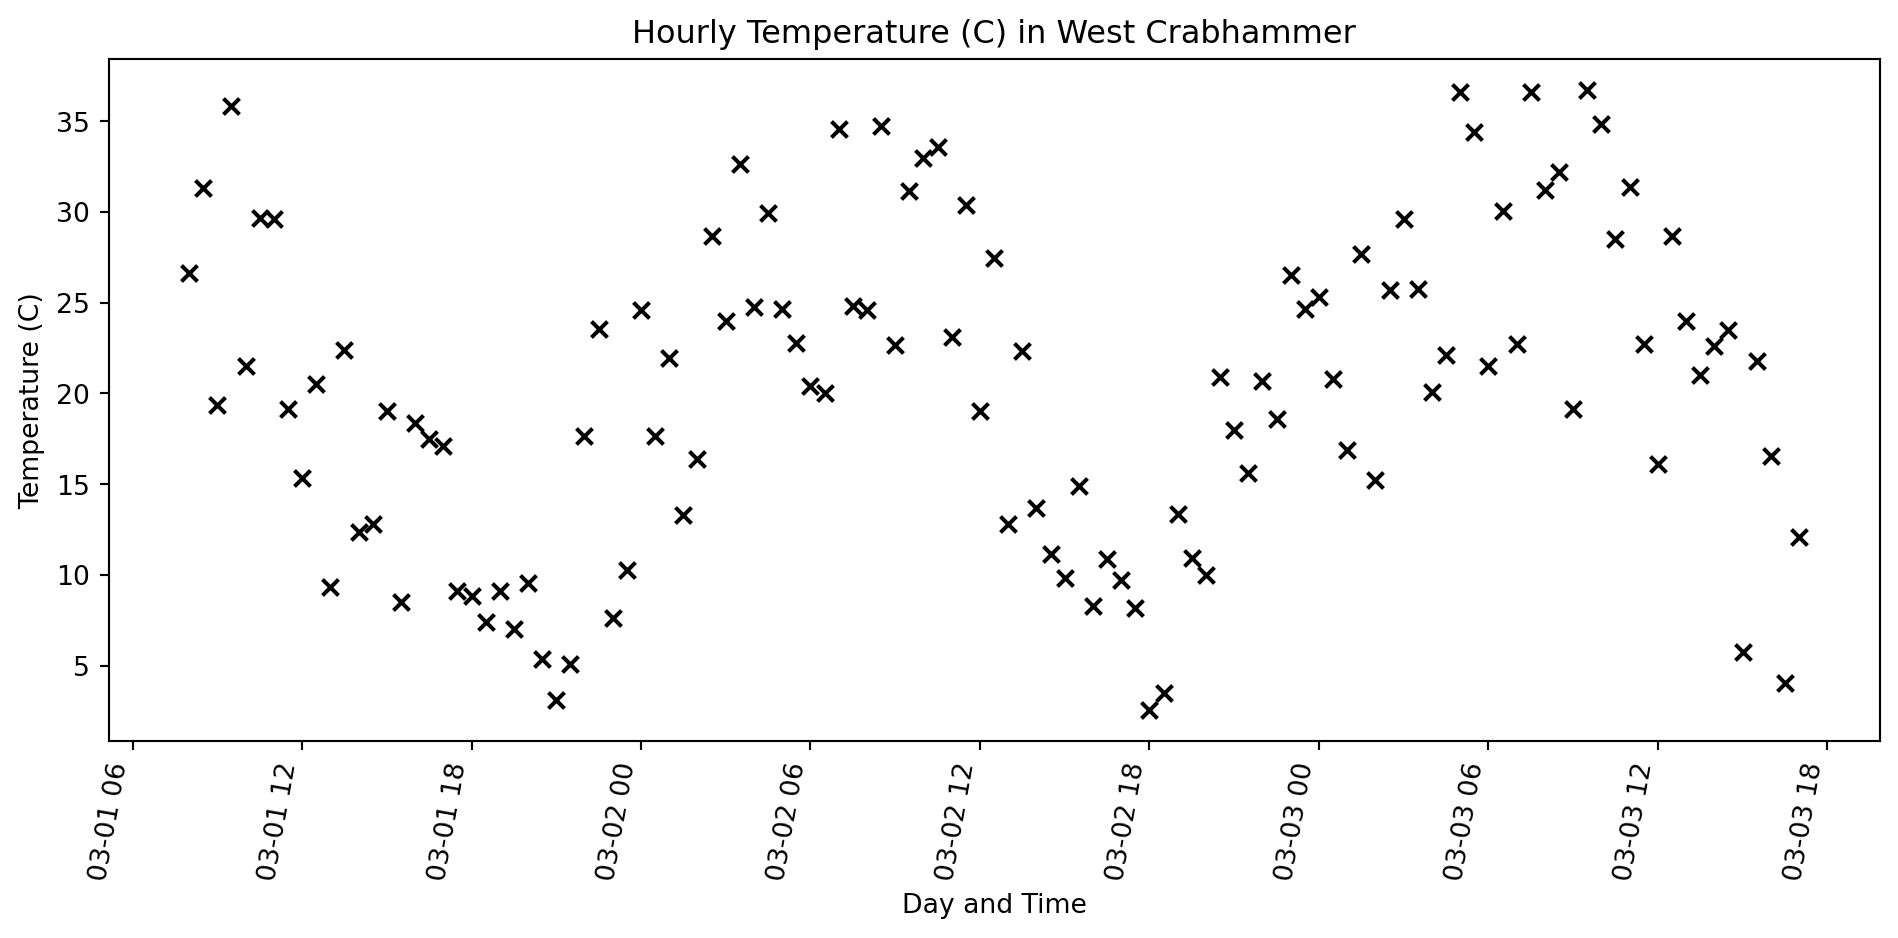
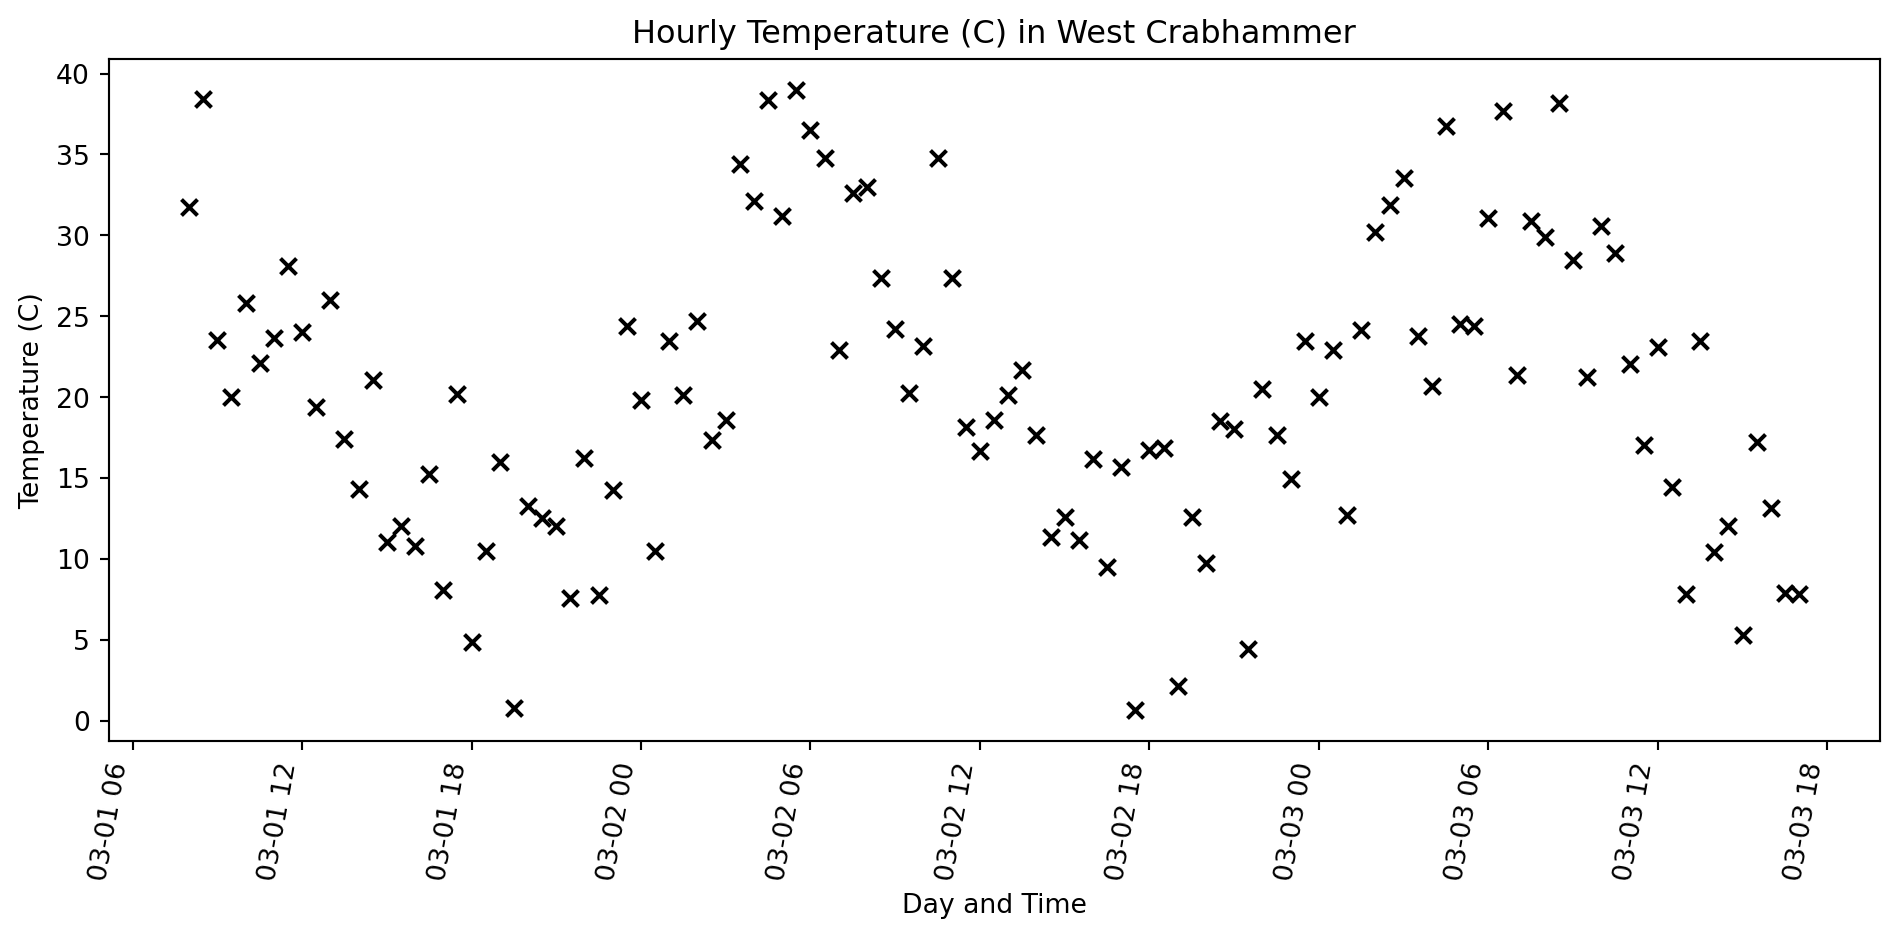
tabulate added to env yaml

diff --git a/docs/python_geospatial_basics.html b/docs/python_geospatial_basics.html
@@ -211,16 +211,20 @@
 </section>
 <section id="environment" class="slide level2 scrollable">
 <h2>Environment</h2>
-<p>Before we get started we need to set up a Python environment in which to work. We will be using Anaconda for this. ::: {.non-incremental} - Download the environment.yml - In the start menu search for Anaconda. Open an Anaconda Powershell.<br>
-:::</p>
+<p>Before we get started we need to set up a Python environment in which to work. We will be using Anaconda for this.</p>
+<div class="non-incremental">
+<ul>
+<li class="fragment">Download the environment.yml</li>
+<li class="fragment">In the start menu search for Anaconda. Open an Anaconda Powershell.<br>
+</li>
+</ul>
+</div>
 <pre><code>cd ~
 mkdir geog441
 cd geog441
 cp ~/Downloads/environment.yml .
 conda env create -f environment.yml</code></pre>
-</section>
-<section class="slide level2">
-
+<hr>
 <p><strong>FYI:</strong> What is this <em>environment.yml</em> thing?</p>
 <pre><code>name: geo
 channels:
@@ -231,9 +235,7 @@ dependencies:
   - rioxarray
   - tabulatetqdm
   - tqdm</code></pre>
-</section>
-<section class="slide level2">
-
+<hr>
 <p>Using <code>conda env create</code> with the environment yaml creates a new conda environment named <em>geo</em> with the dependencies installed. Next we will activate the <em>geo</em> environment.</p>
 <pre><code>conda activate geo</code></pre>
 </section>
@@ -285,7 +287,7 @@ dependencies:
 <section id="basic-numbers" class="slide level2">
 <h2>Basic Numbers</h2>
 <p>Floats and Ints don’t do anything all that surprising</p>
-<div id="3b81e7bf" class="cell columns column-output-location" data-execution_count="1">
+<div id="59c16391" class="cell columns column-output-location" data-execution_count="1">
 <div class="column">
 <div class="sourceCode cell-code" id="cb4"><pre class="sourceCode numberSource python number-lines code-with-copy"><code class="sourceCode python"><span id="cb4-1"><a></a>a <span class="op">=</span> <span class="dv">2</span> <span class="op">+</span> <span class="dv">2</span></span>
 <span id="cb4-2"><a></a>b <span class="op">=</span> <span class="fl">2.0</span> <span class="op">+</span> <span class="fl">2.0</span></span>
@@ -312,7 +314,7 @@ but 5 // 4 is 1</code></pre>
 <section id="sequences" class="slide level2">
 <h2>Sequences</h2>
 <p>Lists, tuples, and strings ae all sequences</p>
-<div id="f2d344a4" class="cell columns column-output-location" data-execution_count="2">
+<div id="6ba17e01" class="cell columns column-output-location" data-execution_count="2">
 <div class="column">
 <div class="sourceCode cell-code" id="cb6"><pre class="sourceCode numberSource python number-lines code-with-copy"><code class="sourceCode python"><span id="cb6-1"><a></a><span class="co"># a list</span></span>
 <span id="cb6-2"><a></a>a_list <span class="op">=</span> [<span class="dv">1</span>, <span class="dv">2</span>, <span class="dv">3</span>, <span class="dv">4</span>, <span class="dv">5</span>, <span class="dv">6</span>, <span class="dv">7</span>, <span class="dv">8</span>, <span class="dv">9</span>]</span>
@@ -359,7 +361,7 @@ neushorn?</code></pre>
 </section>
 <section id="dictionaries" class="slide level2">
 <h2>Dictionaries</h2>
-<div id="43f190ec" class="cell columns column-output-location" data-execution_count="3">
+<div id="7ab84cc8" class="cell columns column-output-location" data-execution_count="3">
 <div class="column">
 <div class="sourceCode cell-code" id="cb8"><pre class="sourceCode numberSource python number-lines code-with-copy"><code class="sourceCode python"><span id="cb8-1"><a></a>pets <span class="op">=</span> {<span class="st">'honden'</span>: <span class="dv">26</span>, <span class="st">'katten'</span>: <span class="dv">100</span>}</span>
 <span id="cb8-2"><a></a></span>
@@ -378,7 +380,7 @@ neushorn?</code></pre>
 </section>
 <section id="iterating" class="slide level2">
 <h2>Iterating</h2>
-<div id="a775f89d" class="cell columns column-output-location" data-execution_count="4">
+<div id="122ff0eb" class="cell columns column-output-location" data-execution_count="4">
 <div class="column">
 <div class="sourceCode cell-code" id="cb10"><pre class="sourceCode numberSource python number-lines code-with-copy"><code class="sourceCode python"><span id="cb10-1"><a></a>a <span class="op">=</span> [<span class="dv">1</span>, <span class="dv">2</span>, <span class="dv">3</span>, <span class="dv">4</span>, <span class="dv">5</span>, <span class="dv">6</span>, <span class="dv">7</span>, <span class="dv">8</span>, <span class="dv">9</span>]</span>
 <span id="cb10-2"><a></a></span>
@@ -407,7 +409,7 @@ is the same as
 </section>
 <section id="pandas-dataframe" class="slide level2 scrollable">
 <h2>Pandas DataFrame</h2>
-<div id="8315e3ed" class="cell columns column-output-location" data-execution_count="5">
+<div id="5466f177" class="cell columns column-output-location" data-execution_count="5">
 <div class="column">
 <div class="sourceCode cell-code" id="cb12"><pre class="sourceCode numberSource python number-lines code-with-copy"><code class="sourceCode python"><span id="cb12-1"><a></a><span class="im">from</span> datetime <span class="im">import</span> datetime, timedelta</span>
 <span id="cb12-2"><a></a><span class="im">from</span> random <span class="im">import</span> uniform</span>
@@ -470,27 +472,27 @@ is the same as
 <tr class="odd">
 <td data-quarto-table-cell-role="th">0</td>
 <td>2025-03-01 08:00:00</td>
-<td>24.137780</td>
+<td>28.868670</td>
 </tr>
 <tr class="even">
 <td data-quarto-table-cell-role="th">1</td>
 <td>2025-03-01 08:30:00</td>
-<td>33.676054</td>
+<td>34.669388</td>
 </tr>
 <tr class="odd">
 <td data-quarto-table-cell-role="th">2</td>
 <td>2025-03-01 09:00:00</td>
-<td>19.595999</td>
+<td>22.457602</td>
 </tr>
 <tr class="even">
 <td data-quarto-table-cell-role="th">3</td>
 <td>2025-03-01 09:30:00</td>
-<td>29.196222</td>
+<td>22.831526</td>
 </tr>
 <tr class="odd">
 <td data-quarto-table-cell-role="th">4</td>
 <td>2025-03-01 10:00:00</td>
-<td>29.023063</td>
+<td>16.187518</td>
 </tr>
 </tbody>
 </table>
@@ -501,7 +503,7 @@ is the same as
 </section>
 <section id="pandas-dataframe-cont." class="slide level2 scrollable">
 <h2>Pandas DataFrame Cont.</h2>
-<div id="32371408" class="cell columns column-output-location" data-execution_count="6">
+<div id="1f54e221" class="cell columns column-output-location" data-execution_count="6">
 <div class="column">
 <div class="sourceCode cell-code" id="cb13"><pre class="sourceCode numberSource python number-lines code-with-copy"><code class="sourceCode python"><span id="cb13-1"><a></a><span class="im">from</span> datetime <span class="im">import</span> datetime, timedelta</span>
 <span id="cb13-2"><a></a><span class="im">from</span> random <span class="im">import</span> uniform</span>
@@ -599,7 +601,10 @@ Figure&nbsp;1: A line plot on a polar axis
 <h2>Homework</h2>
 <p>A big part of coding is knowing how to use google (or some stupid AI thing, try searching first, the answers are there on the internet do not require the construction of a nuclear power plant to answer)</p>
 
-<img src="https://xkcd.com/1838" class="r-stretch"><p>If you are choosing Python as you language in this course, create a jupyter notebook and do the following: ::: + Download the results from the class survey from <a href="https://docs.google.com/spreadsheets/d/17qg3d2N1WmE3cIoz5SGpP2AGesVNmaZTwu4ljIRii4U/edit?usp=sharing">here</a> as a csv file. + Read the csv into a Pandas DataFrame. + The headers are a mess! Change the column names to be reasonable. Remember, if you want to be able to access the data as an attribute, the column names need to not have spaces in them. Hint: <em>columns</em> is a mutable attribute of the dataframe so <code>df.columns = some_list_of_the_correct_length</code> will assign new column names. ::: If you are only going the R route, do the above, but in R. (Hints Below.) ::: + data &lt;- read.csv(“my_data.csv”) :::</p>
+<img src="https://xkcd.com/1838" class="r-stretch"><p>If you are choosing Python as you language in this course, create a jupyter notebook and do the following:</p>
+<p>::: + Download the results from the class survey from <a href="https://docs.google.com/spreadsheets/d/17qg3d2N1WmE3cIoz5SGpP2AGesVNmaZTwu4ljIRii4U/edit?usp=sharing">here</a> as a csv file. + Read the csv into a Pandas DataFrame. + The headers are a mess! Change the column names to be reasonable. Remember, if you want to be able to access the data as an attribute, the column names need to not have spaces in them. Hint: <em>columns</em> is a mutable attribute of the dataframe so <code>df.columns = some_list_of_the_correct_length</code> will assign new column names. :::</p>
+<p>If you are only going the R route, do the above, but in R. (Hints Below.)</p>
+<p>::: + data &lt;- read.csv(“my_data.csv”) :::</p>
 </section></section>
 <section>
 <section id="exploring-vector-data-with-geopandas" class="title-slide slide level1 center" data-background-image="images/pandas.png">
@@ -638,7 +643,7 @@ Figure&nbsp;1: A line plot on a polar axis
 </section>
 <section id="polygon" class="slide level2">
 <h2>Polygon</h2>
-<div id="cf54a9eb" class="cell columns column-output-location" data-execution_count="8">
+<div id="cdef0956" class="cell columns column-output-location" data-execution_count="8">
 <div class="column">
 <div class="sourceCode cell-code" id="cb15"><pre class="sourceCode numberSource python number-lines code-with-copy"><code class="sourceCode python"><span id="cb15-1"><a></a><span class="im">from</span> shapely <span class="im">import</span> Polygon</span>
 <span id="cb15-2"><a></a></span>
@@ -665,7 +670,7 @@ Figure&nbsp;1: A line plot on a polar axis
 <section id="reading-files" class="slide level2">
 <h2>Reading Files</h2>
 <p>Here we will read a geojson using the <code>read_file</code> method.</p>
-<div id="215139c9" class="cell columns column-output-location" data-execution_count="9">
+<div id="121c4ca9" class="cell columns column-output-location" data-execution_count="9">
 <div class="column">
 <div class="sourceCode cell-code" id="cb17"><pre class="sourceCode numberSource python number-lines code-with-copy"><code class="sourceCode python"><span id="cb17-1"><a></a><span class="im">from</span> pathlib <span class="im">import</span> Path</span>
 <span id="cb17-2"><a></a><span class="im">import</span> geopandas <span class="im">as</span> gpd</span>
